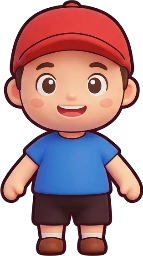
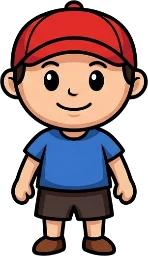
Overworld — 13 personnages en sprites générés (style 2D Mario)
Style retenu : cartoon 2D franc (gros contour, couleurs plates), façon
Nintendo. Le héros et 12 PNJ (Maman, Papi Marcel, Gigi, Momo, Léa, Karim,
Mme Plot, Lucien, Suzette, l'Arbitre, Bastien, Mireille) sont désormais des
sprites générés par Higgsfield, chaque planche « turnaround » découpée en 4
directions et rendue selon le déplacement. Les autres PNJ restent en chibi
vectoriel en attendant leur planche.

Claude-Session: https://claude.ai/code/session_019pMFUkjzijvCX4heMciZKG

diff --git a/src/world/scenery.js b/src/world/scenery.js
@@ -120,7 +120,11 @@ const PROP_H = {
 
 // Personnages : planches générées découpées en 4 directions, chargées à la
 // demande. Seuls les ids listés ici ont une planche (évite les 404 inutiles).
-export const CHAR_SHEETS = new Set(['player']);
+// Personnages disposant d'une planche générée (les autres : repli vectoriel).
+export const CHAR_SHEETS = new Set([
+  'player', 'mom', 'grandpa', 'gigi', 'momo', 'lea', 'karim', 'shopkeeper',
+  'villager1', 'villager2', 'arbiter', 'rival1', 'rival2',
+]);
 const CHAR = {};
 /** Sprite de personnage dirigé. (x,y) = bas-centre. false => repli vectoriel. */
 export function charSprite(ctx, id, x, y, s, dir = 'down', step = 0) {
